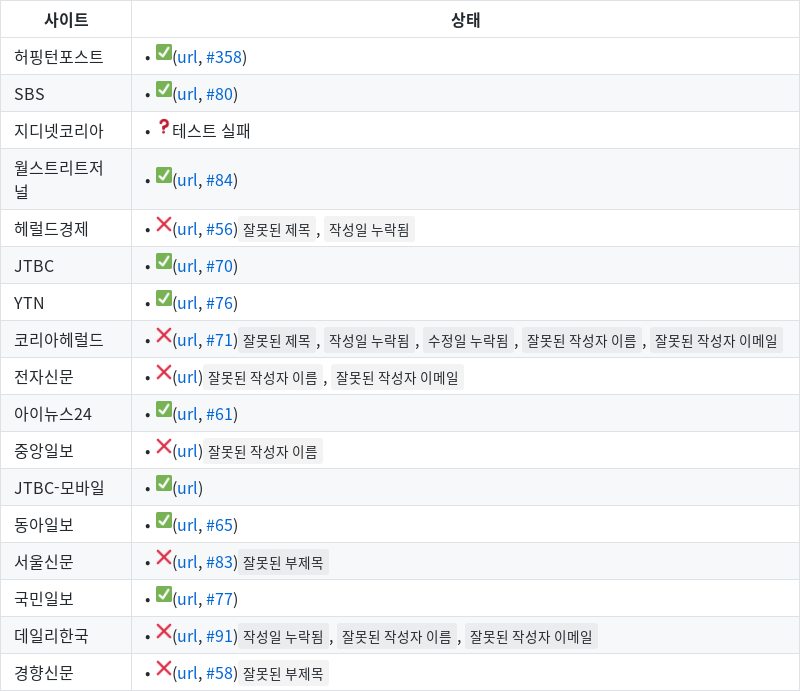
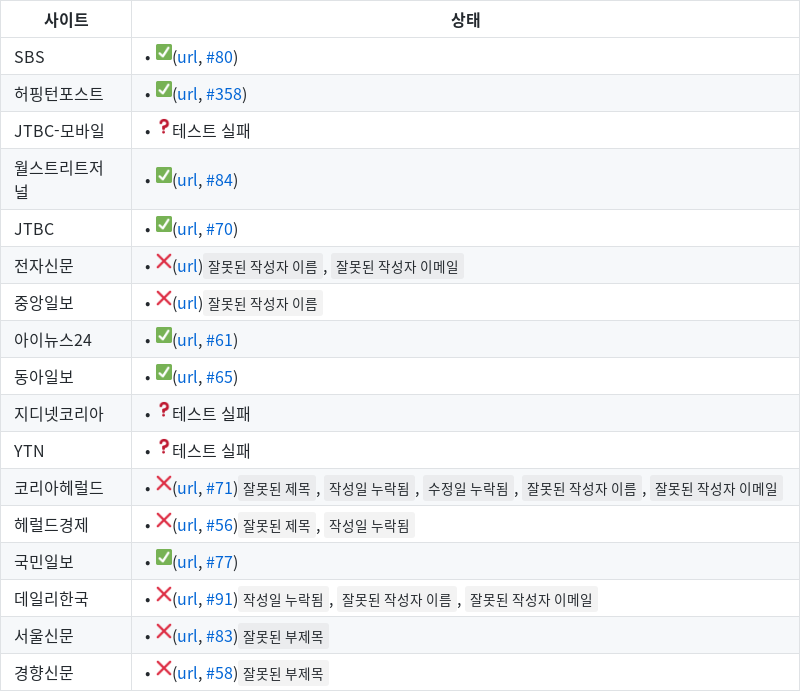
Fri Mar 20 00:11:44 UTC 2020

diff --git a/health-check.md b/health-check.md
@@ -1,19 +1,19 @@
 | 사이트 | 상태 |
 |------|-------|
-| 허핑턴포스트 | • ✅([url](https://www.huffingtonpost.kr/entry/story_kr_5d36a558e4b004b6adb5029c?9e4), [#358](https://github.com/disjukr/just-news/issues/#358)) |
 | SBS | • ✅([url](https://news.sbs.co.kr/news/endPage.do?news_id=N1002697236), [#80](https://github.com/disjukr/just-news/issues/#80)) |
-| 지디넷코리아 | • ❓테스트 실패 |
+| 허핑턴포스트 | • ✅([url](https://www.huffingtonpost.kr/entry/story_kr_5d36a558e4b004b6adb5029c?9e4), [#358](https://github.com/disjukr/just-news/issues/#358)) |
+| JTBC-모바일 | • ❓테스트 실패 |
 | 월스트리트저널 | • ✅([url](https://realtime.wsj.com/korea/2014/10/13/%EB%B0%95%EC%9B%90%EC%88%9C-%EC%84%9C%EC%9A%B8%EC%8B%9C%EC%9E%A5-%EB%AF%B8%EA%B5%AD-%EC%96%B8%EB%A1%A0%EC%97%90-%EB%8F%99%EC%84%B1%EA%B2%B0%ED%98%BC-%EC%A7%80%EC%A7%80-%EB%B0%9C%EC%96%B8/), [#84](https://github.com/disjukr/just-news/issues/#84)) |
-| 헤럴드경제 | • ❌([url](http://news.heraldcorp.com/view.php?ud=20141023000202&md=20141023091209_BK), [#56](https://github.com/disjukr/just-news/issues/#56))`잘못된 제목`, `작성일 누락됨` |
 | JTBC | • ✅([url](http://news.jtbc.joins.com/article/article.aspx?news_id=NB10639468), [#70](https://github.com/disjukr/just-news/issues/#70)) |
-| YTN | • ✅([url](https://www.ytn.co.kr/_ln/0103_201411190800481989), [#76](https://github.com/disjukr/just-news/issues/#76)) |
-| 코리아헤럴드 | • ❌([url](http://khnews.kheraldm.com/view.php?ud=20141111001137&md=20141111180830_BK&kr=1), [#71](https://github.com/disjukr/just-news/issues/#71))`잘못된 제목`, `작성일 누락됨`, `수정일 누락됨`, `잘못된 작성자 이름`, `잘못된 작성자 이메일` |
 | 전자신문 | • ❌([url](http://www.etnews.com/20191031000370?mc=ns_003_00006))`잘못된 작성자 이름`, `잘못된 작성자 이메일` |
-| 아이뉴스24 | • ✅([url](http://www.inews24.com/view/860573), [#61](https://github.com/disjukr/just-news/issues/#61)) |
 | 중앙일보 | • ❌([url](https://news.joins.com/article/23621286))`잘못된 작성자 이름` |
-| JTBC-모바일 | • ✅([url](http://mnews.jtbc.joins.com/News/Article.aspx?news_id=NB11866214)) |
+| 아이뉴스24 | • ✅([url](http://www.inews24.com/view/860573), [#61](https://github.com/disjukr/just-news/issues/#61)) |
 | 동아일보 | • ✅([url](http://news.donga.com/3/03/20141107/67723014/1), [#65](https://github.com/disjukr/just-news/issues/#65)) |
-| 서울신문 | • ❌([url](http://seoul.co.kr/news/newsView.php?id=20141204500025), [#83](https://github.com/disjukr/just-news/issues/#83))`잘못된 부제목` |
+| 지디넷코리아 | • ❓테스트 실패 |
+| YTN | • ❓테스트 실패 |
+| 코리아헤럴드 | • ❌([url](http://khnews.kheraldm.com/view.php?ud=20141111001137&md=20141111180830_BK&kr=1), [#71](https://github.com/disjukr/just-news/issues/#71))`잘못된 제목`, `작성일 누락됨`, `수정일 누락됨`, `잘못된 작성자 이름`, `잘못된 작성자 이메일` |
+| 헤럴드경제 | • ❌([url](http://news.heraldcorp.com/view.php?ud=20141023000202&md=20141023091209_BK), [#56](https://github.com/disjukr/just-news/issues/#56))`잘못된 제목`, `작성일 누락됨` |
 | 국민일보 | • ✅([url](http://news.kmib.co.kr/article/view.asp?arcid=0008864720&code=61121111), [#77](https://github.com/disjukr/just-news/issues/#77)) |
 | 데일리한국 | • ❌([url](http://daily.hankooki.com/lpage/politics/201412/dh20141219103740137430.htm), [#91](https://github.com/disjukr/just-news/issues/#91))`작성일 누락됨`, `잘못된 작성자 이름`, `잘못된 작성자 이메일` |
+| 서울신문 | • ❌([url](http://seoul.co.kr/news/newsView.php?id=20141204500025), [#83](https://github.com/disjukr/just-news/issues/#83))`잘못된 부제목` |
 | 경향신문 | • ❌([url](http://biz.khan.co.kr/khan_art_view.html?artid=201410311921301&code=920100&med=khan), [#58](https://github.com/disjukr/just-news/issues/#58))`잘못된 부제목` |
